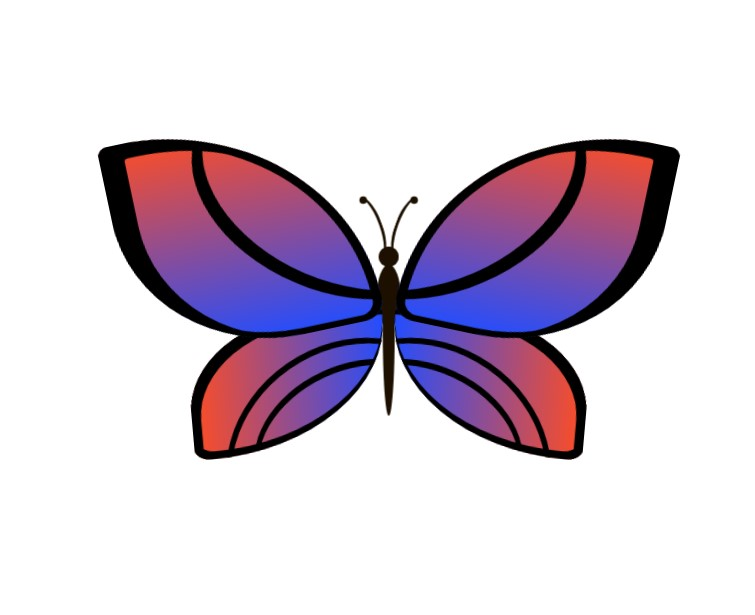
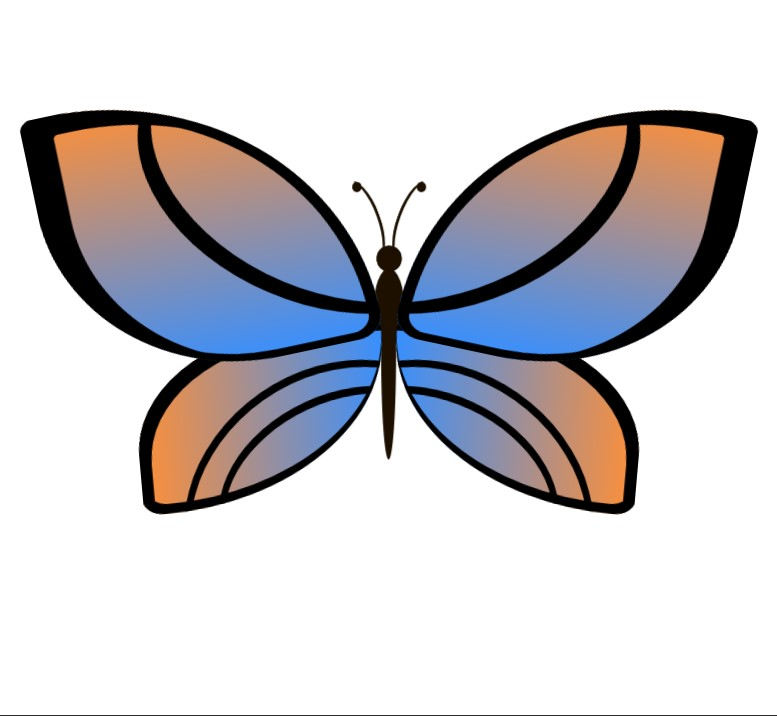
carousel cards done

diff --git a/index.html b/index.html
@@ -47,23 +47,23 @@
 								<div class="carousel">
                   <div class="carousel-item">
                     <div class="carousel-box">
-                      <div class="title"><a href="project_escape.html">Escape or not</a> </div>
+                      <div class="title untitle"><a href="project_escape.html">Escape or not</a> </div>
                       <div class="num">01</div>
-                      <img src="images/escape_homepage.jpg"  style="object-position: left">/>
+                      <img src="images/escape_homepage.jpg"  style="object-position: right">/>
                     </div>
                   </div>
 
                   <div class="carousel-item">
                     <div class="carousel-box">
-                      <div class="title"><a href="project_bff.html">BFF</a></div>
+                      <div class="title untitle"><a href="project_bff.html">BFF</a></div>
                       <div class="num">02</div>
-                      <img src="images/bff_homepage.jpg"  style="object-position: left">/>
+                      <img src="images/bff_homepage_bis.jpg"  style="object-position: 8% 0%">/>
                     </div>
                   </div>
 
                   <div class="carousel-item">
                     <div class="carousel-box">
-                      <div class="title"><a href="project_portal.html">Strange's portal</a></div>
+                      <div class="title untitle"><a href="project_portal.html">Strange's portal</a></div>
                       <div class="num">03</div>
                       <img
                         src="images/portal_screen.jpg" style="object-position: right"
@@ -73,15 +73,15 @@
 
                   <div class="carousel-item">
                     <div class="carousel-box">
-                      <div class="title"><a href="project_butterfly.html">Animated butterfly</a></div>
+                      <div class="title untitle"><a href="project_butterfly.html">Animated butterfly</a></div>
                       <div class="num">04</div>
-                      <img src="images/butterfly_screen.jpg " />
+                      <img src="images/butterfly_screen_bis.jpg " style="object-fit: fill;"/>
                     </div>
                   </div>
 
                   <div class="carousel-item">
                     <div class="carousel-box">
-                      <div class="title"><a href="project_password.html">Password generator</a></div>
+                      <div class="title untitle"><a href="project_password.html">Password generator</a></div>
                       <div class="num">05</div>
                       <img src="images/screen_password.jpg" style="object-position: left top" />
                     </div>
@@ -89,7 +89,7 @@
 
                   <div class="carousel-item">
                     <div class="carousel-box">
-                      <div class="title"><a href="project_converter.html">Unit converter</a></div>
+                      <div class="title untitle"><a href="project_converter.html">Unit converter</a></div>
                       <div class="num">06</div>
                       <img src="images/screen_converter.jpg" />
                     </div>
@@ -97,7 +97,7 @@
 
                   <div class="carousel-item">
                     <div class="carousel-box">
-                      <div class="title"><a href="project_train.html">Animated toy train</a></div>
+                      <div class="title untitle"><a href="project_train.html">Animated toy train</a></div>
                       <div class="num">07</div>
                       <img src="images/toy_train.jpg" />
                     </div>
@@ -105,7 +105,7 @@
 
                   <div class="carousel-item">
                     <div class="carousel-box">
-                      <div class="title"><a href="">Venice</a></div>
+                      <div class="title untitle"><a href="">Venice</a></div>
                       <div class="num">08</div>
                       <img src="https://media.istockphoto.com/id/1191376167/it/foto/villa-dellisola.jpg?s=612x612&w=0&k=20&c=PKslWo4FdbjinohKQlK_oWL34jqAsnzMTdy2bxEAf-I=" />
                     </div>

diff --git a/assets/css/main.css b/assets/css/main.css
@@ -542,19 +542,23 @@ button,
       left: 0;
       width: 100%;
       height: 100%;
-      background: linear-gradient(to bottom, rgba(0, 0, 0, 0.3), rgba(0, 0, 0, 0) 30%, rgba(0, 0, 0, 0) 50%, rgba(0, 0, 0, 0.5)); }
+      background: linear-gradient(to bottom, rgba(0, 0, 0, 0.4), rgba(0, 0, 0, 0) 30%, rgba(0, 0, 0, 0) 50%, rgba(0, 0, 0, 0.8)); }
   .carousel-item .title {
     position: absolute;
     z-index: 1;
     color: #fff;
     bottom: 20px;
     left: 20px;
-    transition: opacity 0.8s cubic-bezier(0, 0.02, 0, 1);
-    font-size: clamp(20px, 3vw, 30px); }
+    transition: opacity 0.6s cubic-bezier(0, 0.02, 0, 1);
+    font-size: clamp(30px, 3vw, 40px); }
     .carousel-item .title a {
       color: #fff;
       text-decoration: none;
       text-shadow: 0 4px 4px rgba(0, 0, 0, 0.1); }
+  .carousel-item .untitle {
+    opacity: 0;
+    pointer-events: none;
+    transition: opacity 0.6s cubic-bezier(0, 0.02, 0, 1); }
   .carousel-item .num {
     position: absolute;
     z-index: 1;

diff --git a/assets/sass/components/_carousel.scss b/assets/sass/components/_carousel.scss
@@ -53,8 +53,9 @@
       left: 0;
       width: 100%;
       height: 100%;
-      background: linear-gradient(to bottom, rgba(0, 0, 0, .3), rgba(0, 0, 0, 0) 30%, rgba(0, 0, 0, 0) 50%, rgba(0, 0, 0, .5));
+      background: linear-gradient(to bottom, rgba(0, 0, 0, .4), rgba(0, 0, 0, 0) 30%, rgba(0, 0, 0, 0) 50%, rgba(0, 0, 0, .8));
     }
+
   }
 
   .title {
@@ -63,8 +64,8 @@
     color: #fff;
     bottom: 20px;
     left: 20px;
-    transition: opacity .8s cubic-bezier(0, 0.02, 0, 1);
-    font-size: clamp(20px, 3vw, 30px);
+    transition: opacity .6s cubic-bezier(0, 0.02, 0, 1);
+    font-size: clamp(30px, 3vw, 40px);
 
 
     a{
@@ -72,6 +73,12 @@
       text-decoration: none;
       text-shadow: 0 4px 4px rgba(0, 0, 0, .1);
     }
+  }
+
+  .untitle{
+    opacity: 0;
+    pointer-events: none;
+    transition: opacity 0.6s cubic-bezier(0, 0.02, 0, 1);
   }
 
   .num {

diff --git a/assets/js/carousel.js b/assets/js/carousel.js
@@ -29,6 +29,12 @@ const displayItems = (item, index, active) => {
   const zIndex = getZindex([...$items], active)[index]
   item.style.setProperty('--zIndex', zIndex)
   item.style.setProperty('--active', (index-active)/$items.length)
+
+  if (index === active ) {
+    item.querySelector('.title').classList.remove('untitle');
+  } else {
+    item.querySelector('.title').classList.add('untitle');
+  }
 }
 
 /*--------------------
